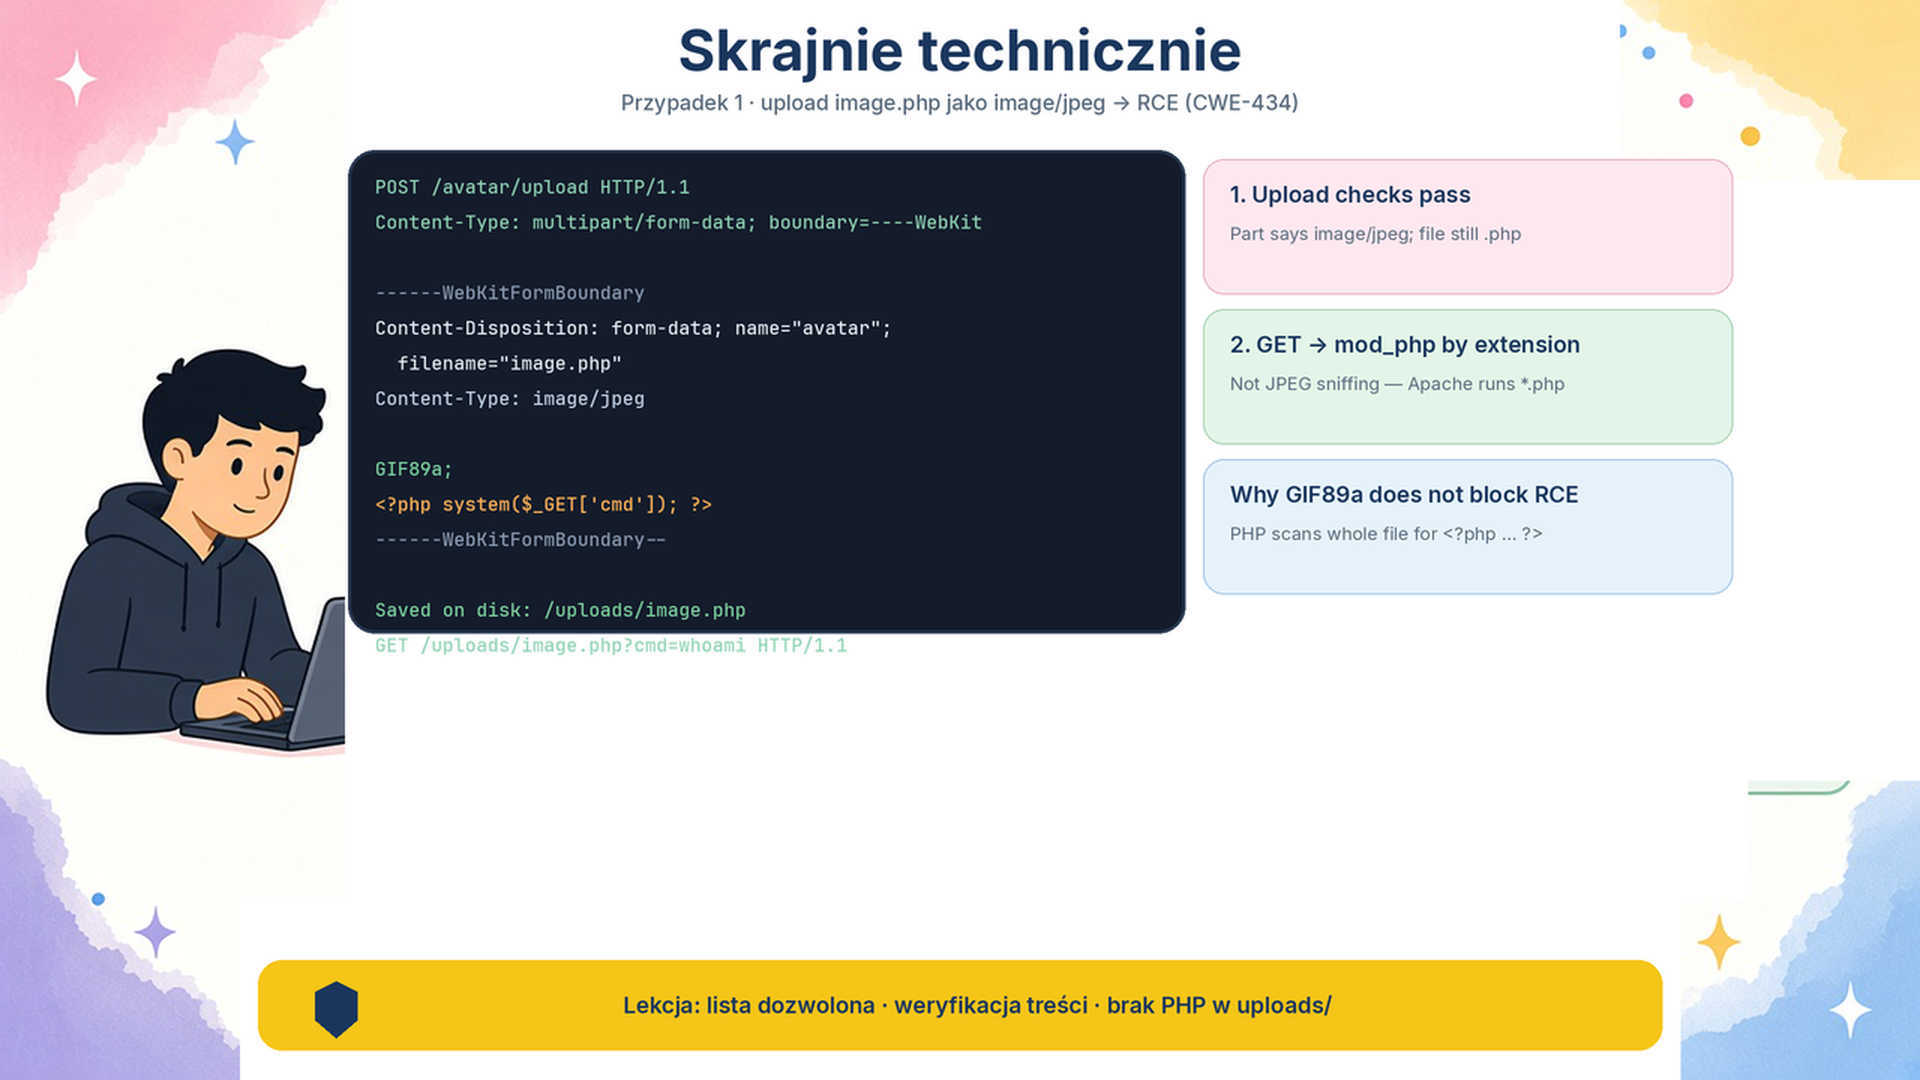
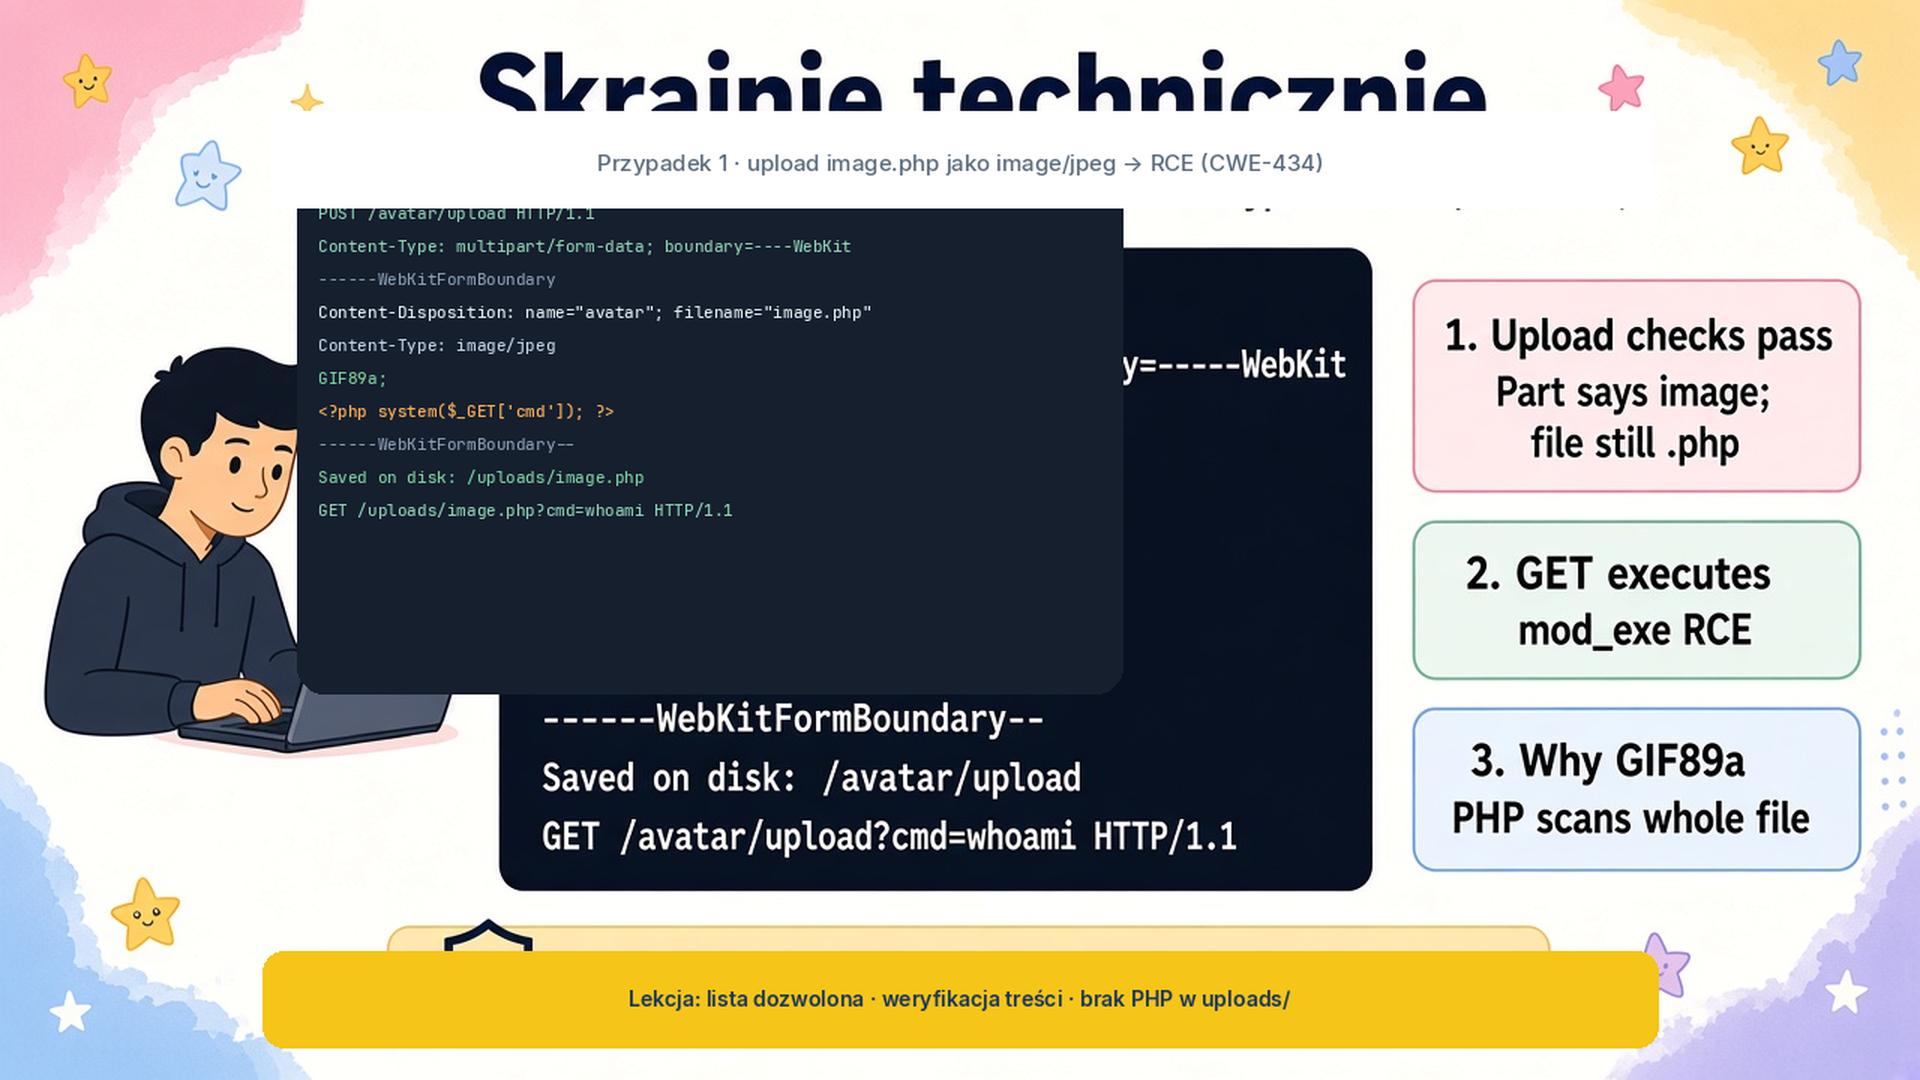
Hist-01 slide: image-gen deck style (not PIL layout script)

diff --git a/FileUpload/presentation/historical-cases/README.md b/FileUpload/presentation/historical-cases/README.md
@@ -29,7 +29,7 @@ Each case has a PNG in [`illustrations/`](illustrations/). Case **#1** uses **tw
    - **Change the shop** (defacement, scam page, malware for visitors)
    - **Pivot** — use your server to attack others (spam, bots, mining)
 
-**Technical slide:** [`hist-01-php-shell-technical.png`](illustrations/hist-01-php-shell-technical.png) (deck) or [`hist-01-php-shell-technical-720p.png`](illustrations/hist-01-php-shell-technical-720p.png) — tytuł **Skrajnie technicznie** (jak w decku); HTTP po angielsku; regeneracja: `_sources/render_hist01_technical_720p.py`.
+**Technical slide:** [`hist-01-php-shell-technical.png`](illustrations/hist-01-php-shell-technical.png) (deck) or [`hist-01-php-shell-technical-720p.png`](illustrations/hist-01-php-shell-technical-720p.png) — **ten sam pipeline co** [`png-slides/`](../png-slides/) (watercolor deck): **obraz z generatora** + referencja slajdu XSS; tytuł **Skrajnie technicznie**; HTTP w panelu po angielsku (dokładny monospace tylko na ciemnym „terminalu” — modele obrazu gubią długi HTTP).
 
 **HTTP (what the slide shows):**
 

diff --git a/FileUpload/presentation/README.md b/FileUpload/presentation/README.md
@@ -1,6 +1,6 @@
 # File upload — presentation slides (PNG)
 
-Nine **English** slides in **1920×1080 PNG**, generated to match your XSS deck: **watercolor corners**, **navy type**, **pink callouts**, **yellow Lesson bar**, simple **flat characters**.
+Nine **English** slides in **1920×1080 PNG**, **generated as images** (same watercolor XSS deck style as your HTML-sanitization example): **watercolor corners**, **navy type**, **pink callouts**, **yellow Lesson bar**, simple **flat characters**. Case **hist-01** “Skrajnie technicznie” uses the same look at **1280×720** — see [`historical-cases/illustrations/hist-01-php-shell-technical-720p.png`](historical-cases/illustrations/hist-01-php-shell-technical-720p.png).
 
 General **CWE-434** teaching (OWASP, Portswigger, Intigriti) — not tied step-for-step to the port **3005** lab.
 
